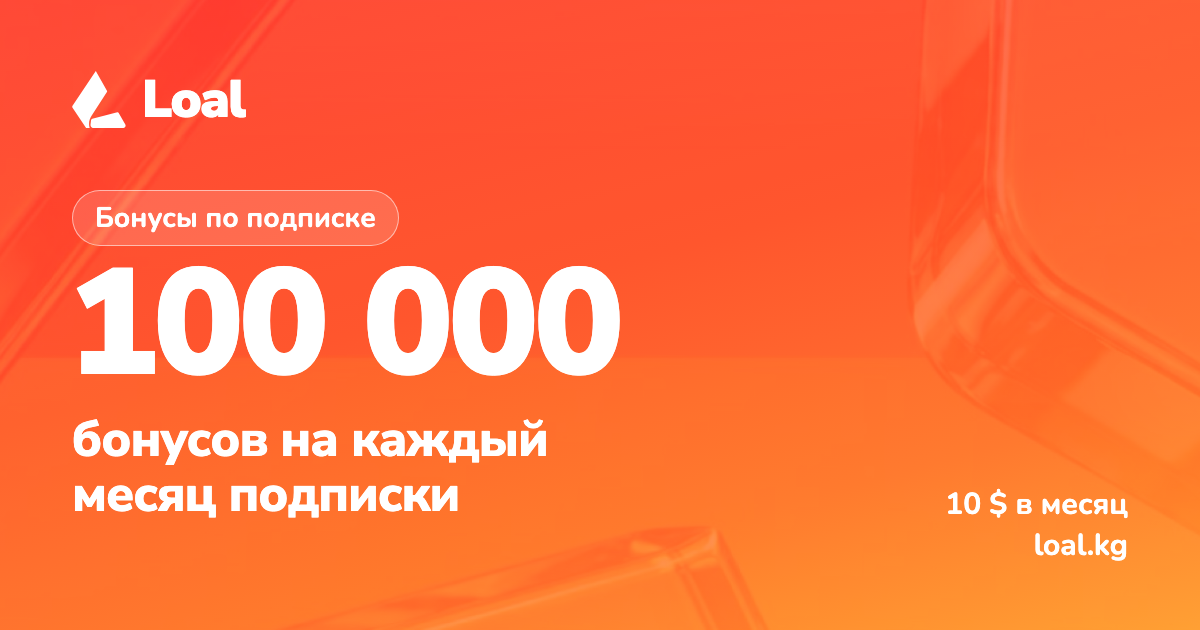
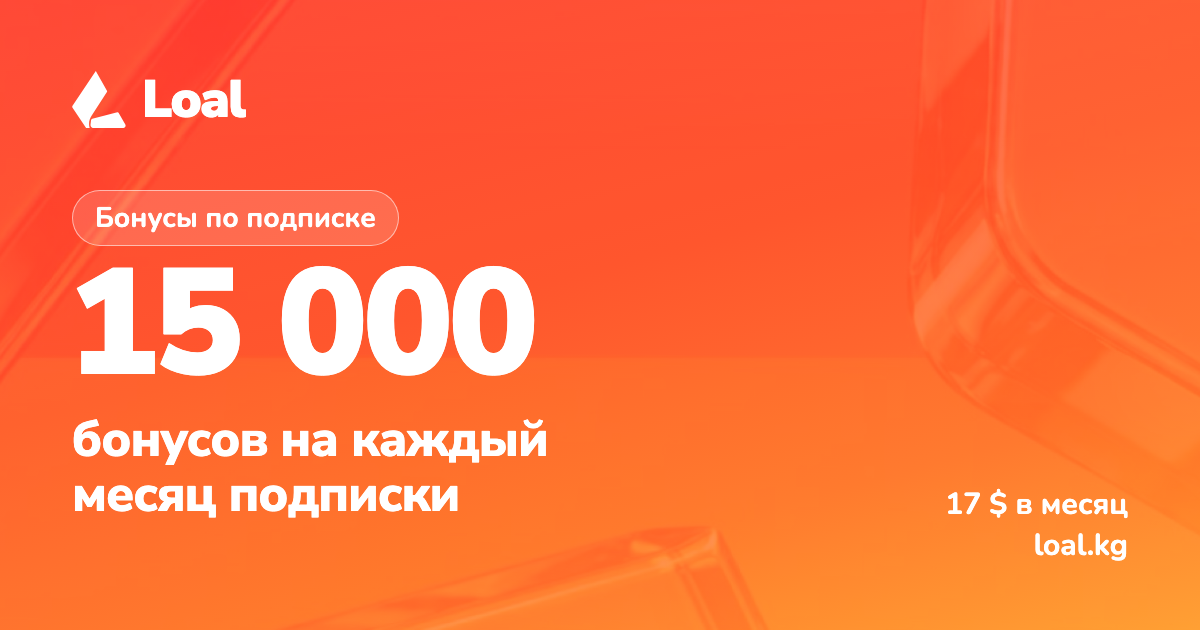
Price Loal at 17 $ for 15 000 bonuses a month
Везде на сайте и в кабинетах: 15 000 бонусов вместо 100 000 и 17 $ вместо
10 $ — первый экран, шаги, калькулятор, цена, вопросы, разметка для
поисковиков и превью для соцсетей. Новая программа в админке по умолчанию
предлагает 15 000 в месяц.

Changed region(s): [[0.1233, 0.4222, 0.3083, 0.6032], [0.4317, 0.4222, 0.5242, 0.6032], [0.8017, 0.7841, 0.8325, 0.8143]]

diff --git a/apps/landing/app/page.tsx b/apps/landing/app/page.tsx
@@ -27,7 +27,7 @@ const categories = [
 ];
 
 /**
- * Главный барьер из контент-плана: «100 000» читают как деньги. Снимаем его сразу
+ * Главный барьер из контент-плана: «15 000» читают как деньги. Снимаем его сразу
  * после первого экрана, тремя короткими фактами — без маркетинга.
  */
 const bonusFacts = [
@@ -50,20 +50,20 @@ const worthIt = [
   "Откройте каталог и найдите партнёров, к которым вы и так ходите",
   "Прикиньте, сколько тратите у них за месяц",
   "Умножьте на их процент — это то, что закроют бонусы",
-  "Сравните с 10 $ за подписку",
+  "Сравните с 17 $ за подписку",
 ];
 
 const included = [
-  "100 000 бонусов на каждый оплаченный месяц",
+  "15 000 бонусов на каждый оплаченный месяц",
   "Карта Loal в Apple Wallet",
   "Каталог партнёров с их процентами",
   "Кабинет: баланс, история трат, продление",
 ];
 
 const faq = [
-  { q: "Сколько стоит подписка?", a: "10 $ в месяц. Оплата проходит через OctōPAY, продлить можно в личном кабинете." },
+  { q: "Сколько стоит подписка?", a: "17 $ в месяц. Оплата проходит через OctōPAY, продлить можно в личном кабинете." },
   {
-    q: "100 000 бонусов — это 100 000 сом?",
+    q: "15 000 бонусов — это 15 000 сом?",
     a: "Нет. 1 бонус равен 1 сому только в бонусной части покупки у партнёра. Это не наличные: бонусы нельзя снять, вывести на карту или обменять на деньги.",
   },
   {
@@ -76,7 +76,7 @@ const faq = [
   },
   {
     q: "Остаток бонусов переносится на следующий месяц?",
-    a: "Нет. Если вы продлили подписку, новый период начинается с полного баланса 100 000 бонусов, а остаток прошлого не добавляется. Если не продлили — бонусы сгорают, пока вы снова не оплатите подписку.",
+    a: "Нет. Если вы продлили подписку, новый период начинается с полного баланса 15 000 бонусов, а остаток прошлого не добавляется. Если не продлили — бонусы сгорают, пока вы снова не оплатите подписку.",
   },
   {
     q: "Кому подписка выгодна, а кому нет?",
@@ -102,16 +102,16 @@ const subscriptionLd = {
   "@type": "Product",
   name: "Подписка Loal",
   description:
-    "Подписка Loal за 10 $ в месяц: карта в Apple Wallet и 100 000 бонусов на оплаченный период. Бонусами закрывается часть покупки у партнёров в Бишкеке.",
+    "Подписка Loal за 17 $ в месяц: карта в Apple Wallet и 15 000 бонусов на оплаченный период. Бонусами закрывается часть покупки у партнёров в Бишкеке.",
   brand: { "@type": "Brand", name: "Loal" },
   offers: {
     "@type": "Offer",
-    price: "10",
+    price: "17",
     priceCurrency: "USD",
     availability: "https://schema.org/InStock",
     priceSpecification: {
       "@type": "UnitPriceSpecification",
-      price: "10",
+      price: "17",
       priceCurrency: "USD",
       billingDuration: "P1M",
       unitCode: "MON",
@@ -161,7 +161,7 @@ export default function Home() {
                 data-hero-number
                 className="block text-[clamp(3.4rem,10vw,9rem)] leading-[1] font-black whitespace-nowrap"
               >
-                100 000
+                15 000
               </span>
               <span
                 data-hero-sub
@@ -175,7 +175,7 @@ export default function Home() {
               data-hero-fade
               className="mt-7 max-w-[760px] text-[1.1875rem] leading-snug font-bold sm:text-xl"
             >
-              Loal — подписка за 10 $ в месяц. Вы получаете карту в Apple Wallet и 100&nbsp;000 бонусов на оплаченный
+              Loal — подписка за 17 $ в месяц. Вы получаете карту в Apple Wallet и 15&nbsp;000 бонусов на оплаченный
               период, а бонусами закрываете часть покупки у партнёров.
             </p>
             <div data-hero-item data-hero-fade className="mt-8 flex flex-wrap justify-center gap-4">
@@ -204,15 +204,15 @@ export default function Home() {
           </div>
         </section>
 
-        {/* Вопрос 2: что такое 100 000 бонусов */}
+        {/* Вопрос 2: что такое 15 000 бонусов */}
         <section id="bonuses" className="scroll-mt-6">
           <div className="mx-auto max-w-[1280px] px-5 pt-20 pb-8 sm:px-12 sm:pt-32">
             <div className="grid gap-6 lg:grid-cols-[1fr_1.35fr] lg:items-end lg:gap-16">
               <h2 data-split className={sectionTitle}>
-                100 000 бонусов — это что?
+                15 000 бонусов — это что?
               </h2>
               <p className="text-lg leading-snug text-slate sm:text-xl">
-                Сначала о главном: это не 100&nbsp;000 сом на карте и не деньги для вывода. Это бонусы, которыми вы
+                Сначала о главном: это не 15&nbsp;000 сом на карте и не деньги для вывода. Это бонусы, которыми вы
                 закрываете часть покупок у партнёров Loal.
               </p>
             </div>
@@ -272,7 +272,7 @@ export default function Home() {
               <div className="relative">
                 <p className="display text-[clamp(2.4rem,4vw,3.75rem)]">Продлили</p>
                 <p className="mt-6 max-w-[520px] text-lg leading-snug font-semibold sm:text-xl">
-                  Новый период начинается с полного баланса: снова 100&nbsp;000 бонусов. Остаток прошлого месяца не
+                  Новый период начинается с полного баланса: снова 15&nbsp;000 бонусов. Остаток прошлого месяца не
                   переносится.
                 </p>
               </div>
@@ -281,7 +281,7 @@ export default function Home() {
               <p className="display text-[clamp(2.4rem,4vw,3.75rem)]">Не продлили</p>
               <p className="mt-6 max-w-[520px] text-lg leading-snug sm:text-xl">
                 Оставшиеся бонусы сгорают, платить ими нельзя. Оплатите подписку — и новый период начнётся со
-                100&nbsp;000.
+                15&nbsp;000.
               </p>
             </div>
           </div>
@@ -339,7 +339,7 @@ export default function Home() {
                 Окупится ли подписка?
               </h2>
               <p className="mt-6 text-lg leading-snug text-slate-soft sm:text-xl">
-                Не всем. Если вы почти не бываете у партнёров Loal, 10&nbsp;$ не вернутся. Проверьте за минуту:
+                Не всем. Если вы почти не бываете у партнёров Loal, 17&nbsp;$ не вернутся. Проверьте за минуту:
               </p>
             </div>
             <ol className="flex flex-col gap-4">
@@ -365,11 +365,11 @@ export default function Home() {
                   data-price
                   className="display mt-4 flex flex-wrap items-baseline gap-x-[0.3em] text-[clamp(4rem,8vw,7.5rem)] leading-none"
                 >
-                  <span className="whitespace-nowrap">10 $</span>
+                  <span className="whitespace-nowrap">17 $</span>
                   <span className="text-[0.36em] whitespace-nowrap text-slate">в месяц</span>
                 </p>
                 <p className="mt-5 text-lg text-slate sm:text-xl">
-                  Примерно 880 сом. Оплата через{" "}
+                  Примерно 1 500 сом. Оплата через{" "}
                   <a href={OCTOPAY_URL} className="text-flame-ink underline underline-offset-4 hover:no-underline">
                     OctōPAY
                   </a>

diff --git a/apps/landing/app/_components/month-steps.tsx b/apps/landing/app/_components/month-steps.tsx
@@ -27,7 +27,7 @@ type Step = {
 const steps: Step[] = [
   {
     title: "Оформляете\nподписку",
-    text: "На сайте: оформление, оплата 10 $ через OctōPAY — и сразу открывается личный кабинет с вашей картой.",
+    text: "На сайте: оформление, оплата 17 $ через OctōPAY — и сразу открывается личный кабинет с вашей картой.",
     balance: 0,
     image: stepSubscribe,
     alt: "Телефон с картой Loal и переключателем «Active»",
@@ -35,16 +35,16 @@ const steps: Step[] = [
   },
   {
     title: "Добавляете карту\nв Apple Wallet",
-    text: "Одна кнопка в кабинете — и карта Loal у вас в телефоне, на ней 100 000 бонусов. Это Wallet, а не Apple Pay: картой не платят, её показывают.",
-    balance: 100_000,
+    text: "Одна кнопка в кабинете — и карта Loal у вас в телефоне, на ней 15 000 бонусов. Это Wallet, а не Apple Pay: картой не платят, её показывают.",
+    balance: 15_000,
     image: stepWallet,
-    alt: "Карта Loal с балансом 100 000 поверх других карт",
+    alt: "Карта Loal с балансом 15 000 поверх других карт",
     imageWidth: 447,
   },
   {
     title: "Показываете QR\nна кассе партнёра",
     text: "Бонусами закрывается допустимая партнёром часть чека. Остаток вы платите деньгами, как обычно.",
-    balance: 36_800,
+    balance: 11_800,
     image: stepPay,
     alt: "Платёжный терминал и бумажные пакеты с покупками",
     imageWidth: 593,
@@ -52,9 +52,9 @@ const steps: Step[] = [
     centerFix: "-translate-x-[6.5%] lg:translate-x-0",
   },
   {
-    title: "Продлили —\nснова 100 000",
+    title: "Продлили —\nснова 15 000",
     text: "Новый период начинается с полного баланса, остаток прошлого не переносится. Не продлили — бонусы сгорают.",
-    balance: 100_000,
+    balance: 15_000,
     image: stepRefill,
     alt: "Настольный календарь, первое число отмечено",
     imageWidth: 434,
@@ -137,7 +137,7 @@ export function MonthSteps() {
                     aria-hidden="true"
                     className="brand-gradient display absolute top-[6%] right-0 -rotate-[15deg] lg:-right-[8%] rounded-full px-[4.5%] py-[3%] text-[clamp(1.5rem,5.5vw,2.56rem)] whitespace-nowrap text-white"
                   >
-                    +100 000
+                    +15 000
                   </span>
                 )}
               </div>

diff --git a/apps/client/src/pages/my-card/index.tsx b/apps/client/src/pages/my-card/index.tsx
@@ -30,7 +30,7 @@ export function MyCardPage() {
       <section className="flex flex-col gap-5">
         <h1 className="display text-[clamp(1.75rem,7vw,2.25rem)] leading-[1.1]">Карты пока нет</h1>
         <p className="text-lg text-muted-foreground">
-          Оформите подписку — карта появится в Apple Wallet сразу после оплаты, а на ней 100 000 бонусов на оплаченный
+          Оформите подписку — карта появится в Apple Wallet сразу после оплаты, а на ней 15 000 бонусов на оплаченный
           период.
         </p>
         <Card>
@@ -76,7 +76,7 @@ export function MyCardPage() {
           </DialogTrigger>
           <DialogContent
             title={subscription ? "Продлить подписку" : "Оформить подписку"}
-            description="Каждый оплаченный месяц — снова 100 000 бонусов. Остаток прошлого месяца не переносится."
+            description="Каждый оплаченный месяц — снова 15 000 бонусов. Остаток прошлого месяца не переносится."
           >
             <PaySubscriptionForm serial={serialNumber} />
           </DialogContent>

diff --git a/apps/landing/app/_components/partner-wall.tsx b/apps/landing/app/_components/partner-wall.tsx
@@ -60,8 +60,8 @@ export async function PartnerWall() {
             </h2>
             <p className="mt-4 max-w-[56ch] text-lg leading-snug text-slate-soft sm:text-xl">
               {empty
-                ? "Каждый оплаченный месяц — 100 000 бонусов на карте. Заведения подключаются прямо сейчас — первые появятся здесь."
-                : "100 000 бонусов на каждый оплаченный месяц — тратьте их здесь. Список пополняется, и каждое заведение само задаёт, какую часть чека закроют бонусы."}
+                ? "Каждый оплаченный месяц — 15 000 бонусов на карте. Заведения подключаются прямо сейчас — первые появятся здесь."
+                : "15 000 бонусов на каждый оплаченный месяц — тратьте их здесь. Список пополняется, и каждое заведение само задаёт, какую часть чека закроют бонусы."}
             </p>
           </div>
 

diff --git a/apps/landing/app/layout.tsx b/apps/landing/app/layout.tsx
@@ -21,7 +21,7 @@ const body = Nunito({
 const MOTION_PENDING_SCRIPT = `(function(){var d=document.documentElement;if(matchMedia("(prefers-reduced-motion: reduce)").matches)return;d.classList.add("motion-pending");setTimeout(function(){d.classList.remove("motion-pending")},4000)})();`;
 
 const DESCRIPTION =
-  "Loal — бонусы по подписке. 10 $ в месяц: карта в Apple Wallet и 100 000 бонусов на каждый оплаченный период. Бонусами закрывается часть покупки у партнёров в Бишкеке.";
+  "Loal — бонусы по подписке. 17 $ в месяц: карта в Apple Wallet и 15 000 бонусов на каждый оплаченный период. Бонусами закрывается часть покупки у партнёров в Бишкеке.";
 
 // Картинка превью (opengraph-image.png) и иконки лежат в app/ и подключаются по соглашению Next.
 export const metadata: Metadata = {

diff --git a/apps/admin/src/features/program/program-form.tsx b/apps/admin/src/features/program/program-form.tsx
@@ -10,7 +10,7 @@ import { Button, ConfirmDialog, FormField, FormStatus, Input, Switch } from "@lo
 import { Form, Formik } from "formik";
 import { useCreateProgram, useDeleteProgram, useUpdateProgram } from "../../entities/platform/api";
 
-const newProgram: CreateProgramInput = { name: "", pointsPerPeriod: 100000, welcomePoints: 0 };
+const newProgram: CreateProgramInput = { name: "", pointsPerPeriod: 15000, welcomePoints: 0 };
 
 export function CreateProgramForm() {
   const create = useCreateProgram();
@@ -93,7 +93,7 @@ export function EditProgramForm({ program }: { program: Program }) {
   const remove = useDeleteProgram();
   const initialValues: UpdateProgramInput = {
     name: program.name,
-    pointsPerPeriod: Number((program.config as { pointsPerPeriod?: number } | null)?.pointsPerPeriod ?? 100000),
+    pointsPerPeriod: Number((program.config as { pointsPerPeriod?: number } | null)?.pointsPerPeriod ?? 15000),
     active: program.active ?? true,
     welcomePoints: program.welcomePoints ?? 0,
   };

diff --git a/apps/landing/app/_components/site-footer.tsx b/apps/landing/app/_components/site-footer.tsx
@@ -20,7 +20,7 @@ export function SiteFooter() {
             <div className="max-w-[539px]">
               <Logo size="lg" descriptor="Бонусы по подписке" />
               <p className="mt-5 text-lg leading-snug text-slate sm:text-xl">
-                Выгода в привычных покупках. 100&nbsp;000 бонусов на каждый оплаченный месяц — ими закрывается часть
+                Выгода в привычных покупках. 15&nbsp;000 бонусов на каждый оплаченный месяц — ими закрывается часть
                 покупки у партнёров Loal в Бишкеке.
               </p>
             </div>

diff --git a/apps/landing/app/_components/hero-cards.tsx b/apps/landing/app/_components/hero-cards.tsx
@@ -70,7 +70,7 @@ function LoyaltyCard({ tone, style }: { tone: Tone; style: React.CSSProperties }
         <span className={`text-[1.4em] ${t.muted}`}>до 1 октября</span>
       </div>
       <p className={`mt-[3.2em] text-[1.6em] ${t.muted}`}>Баланс бонусов</p>
-      <p className={`display mt-[0.15em] text-[5.4em] leading-none whitespace-nowrap ${t.number}`}>100&nbsp;000</p>
+      <p className={`display mt-[0.15em] text-[5.4em] leading-none whitespace-nowrap ${t.number}`}>15&nbsp;000</p>
       <p className={`mt-[0.6em] text-[1.6em] ${t.muted}`}>бонусов на месяц</p>
       <FakeQr className="mt-auto h-[8em] w-[8em] self-end" />
     </div>

diff --git a/apps/client/src/pages/enroll/index.tsx b/apps/client/src/pages/enroll/index.tsx
@@ -19,7 +19,7 @@ export function EnrollPage() {
         <h1 className="display text-[2.25rem] leading-tight">Карта Loal</h1>
         <p className="mt-2 text-lg text-muted-foreground">
           Заполните три поля — карта сразу появится, её можно добавить в Apple или Google Wallet. Баллы на неё приносит
-          подписка: 100 000 бонусов на каждый оплаченный месяц.
+          подписка: 15 000 бонусов на каждый оплаченный месяц.
         </p>
       </div>
       {info.isPending && <Loading rows={3} />}

diff --git a/packages/api/src/schemas/template.ts b/packages/api/src/schemas/template.ts
@@ -51,7 +51,7 @@ export const BARCODE_FORMAT_LABELS: Record<z.infer<typeof barcodeFormatSchema>, 
  * показывается как написано. sample — чем заполнить превью.
  */
 export const LIVE_FIELD_KEYS = [
-  { key: "balance", label: "Баланс баллов", sample: "100 000" },
+  { key: "balance", label: "Баланс баллов", sample: "15 000" },
   { key: "cardNumber", label: "Номер карты", sample: "LOAL-7F3A" },
   { key: "memberName", label: "Имя клиента", sample: "Айгуль Садыкова" },
   { key: "phone", label: "Телефон клиента", sample: "+996 700 44 55 66" },

diff --git a/apps/client/src/pages/card/index.tsx b/apps/client/src/pages/card/index.tsx
@@ -51,7 +51,7 @@ export function CardPage() {
           </DialogTrigger>
           <DialogContent
             title="Продлить подписку"
-            description="Каждый оплаченный месяц — снова 100 000 бонусов. Остаток прошлого месяца не переносится."
+            description="Каждый оплаченный месяц — снова 15 000 бонусов. Остаток прошлого месяца не переносится."
           >
             <PaySubscriptionForm serial={serial} />
           </DialogContent>

diff --git a/apps/landing/app/become-partner/page.tsx b/apps/landing/app/become-partner/page.tsx
@@ -49,7 +49,7 @@ const steps = [
 const gains = [
   {
     title: "Покупатели с бонусами Loal",
-    text: "У каждого подписчика 100 000 бонусов на оплаченный месяц, и потратить их можно только у партнёров сети.",
+    text: "У каждого подписчика 15 000 бонусов на оплаченный месяц, и потратить их можно только у партнёров сети.",
   },
   {
     title: "Вы решаете, сколько отдать",
